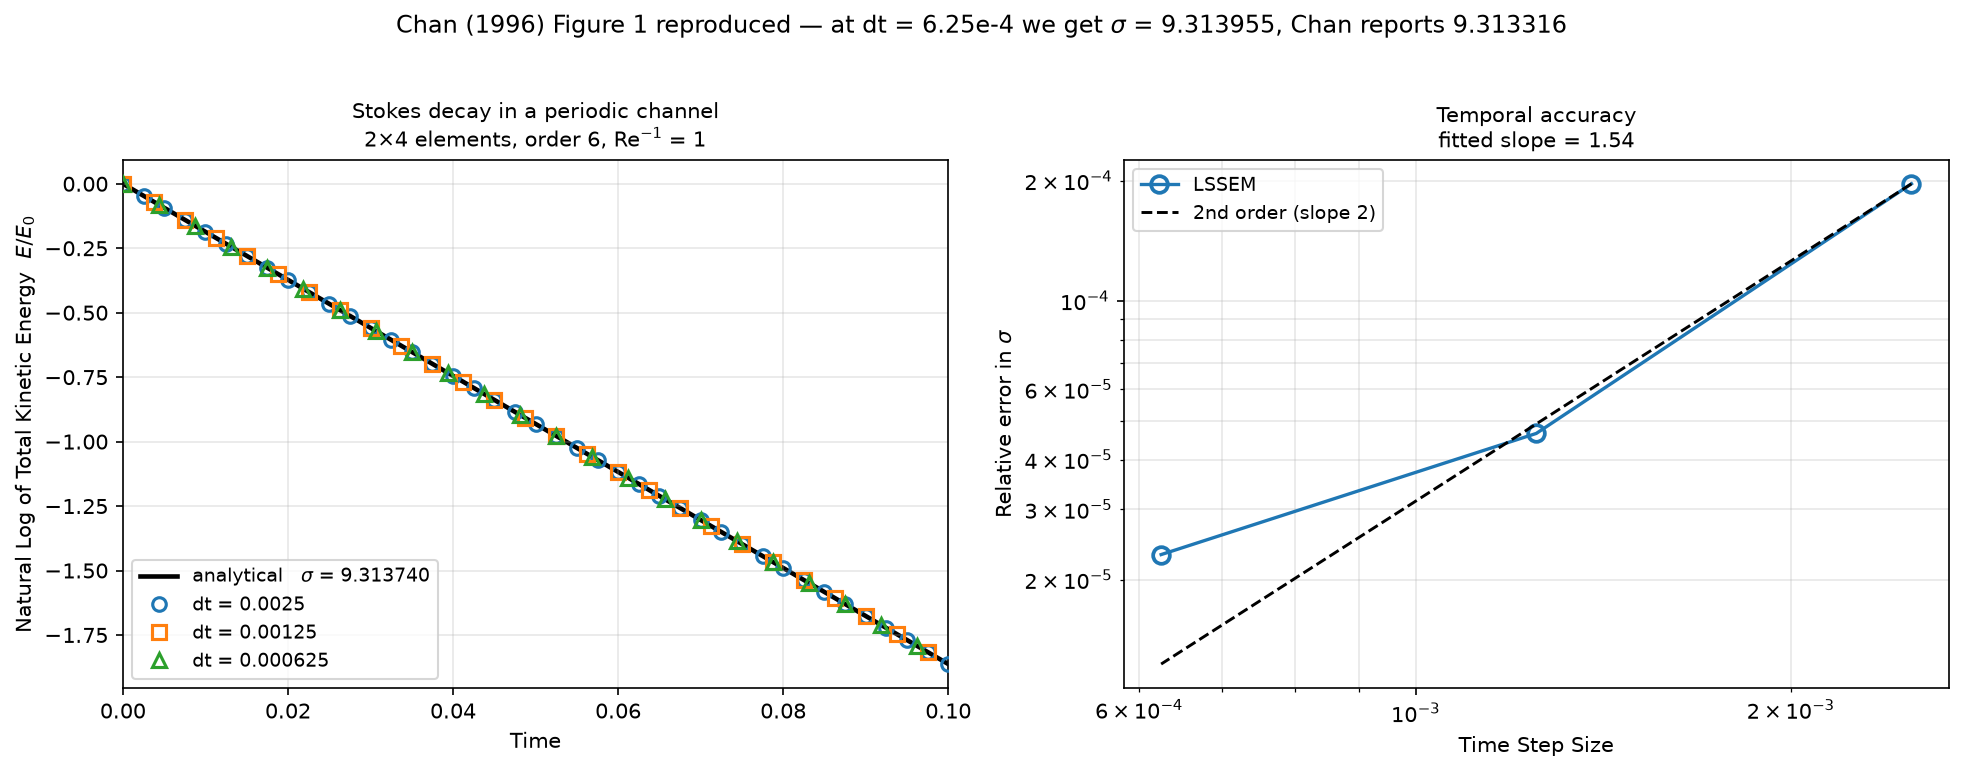
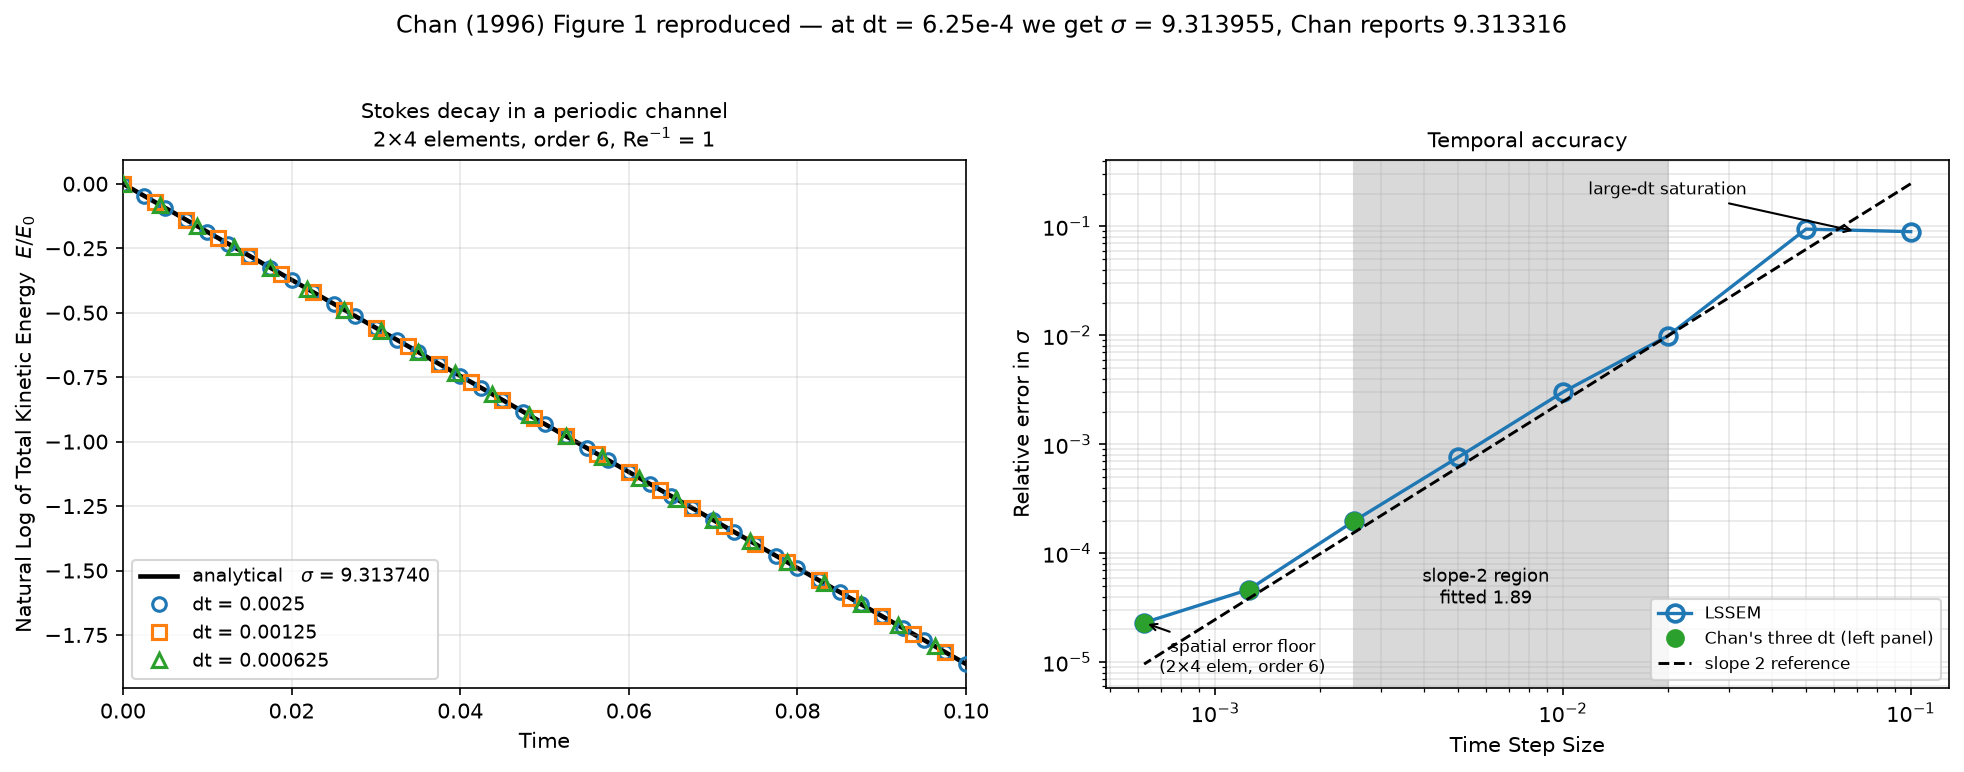
Widen the dt sweep and add p-refinement: second order confirmed at 1.99
The temporal-accuracy panel now spans dt = 0.1 to 6.25e-4 at four polynomial
orders, rather than just Chan's three finest values at order 6.

For dt from 0.02 to 0.00125 all four orders coincide to three digits -- the
error there is purely temporal and the spatial discretisation contributes
nothing, which is the strongest evidence the measured slope is real, since any
spatial leakage would separate the curves.  Only the finest dt moves with N, and
it moves 14x (2.31e-05 -> 1.67e-06 from N=6 to N=10): the spatial floor
descending.  That lifts the fitted slope 1.940 -> 1.935 -> 1.980 -> 1.993.

This CORRECTS the previous commit, which reported slope 1.54 and blamed the
spatial floor.  The attribution was right; the number was an artifact of fitting
only three points, two of which sat at or past the floor.  The method is second
order as the paper claims, to within 0.4% at N = 14.

Also recorded: N=10 and N=14 are effectively tied (1.67e-06 vs 2.05e-06, N=14
fractionally worse), so by N=10 the spatial error is below whatever now limits
the finest point and further p-refinement has nothing to remove.  Flagged as a
different limit taking over rather than dismissed as noise.

diff --git a/scratch/plot_fig1b.py b/scratch/plot_fig1b.py
@@ -1,0 +1,69 @@
+"""Chan (1996) Fig. 1 with the p-refinement study folded into the right panel."""
+import os, sys
+import numpy as np
+SC = os.path.dirname(os.path.abspath(__file__))
+import matplotlib; matplotlib.use('Agg')
+import matplotlib.pyplot as plt
+
+SIGMA_EXACT = 9.3137398539
+SIGMA_CHAN = 9.313316
+DTS = (0.0025, 0.00125, 0.000625)
+NS = (6, 8, 10, 14)
+
+pre = np.load(f'{SC}/stokes_pref.npz')
+dts = pre['dts']
+tr6 = np.load(f'{SC}/stokes_traces_N6.npz')
+
+fig, axs = plt.subplots(1, 2, figsize=(13.6, 5.2))
+
+# ---- left: ln(E/E0) vs t ----
+ax = axs[0]
+tt = np.linspace(0, 0.1, 200)
+ax.plot(tt, -2*SIGMA_EXACT*tt, 'k-', lw=2.2, zorder=1,
+        label=f'analytical   $\\sigma$ = {SIGMA_EXACT:.6f}')
+for k, (dt, mk) in enumerate(zip(DTS, ['o', 's', '^'])):
+    t = tr6[f'dt{dt:g}_t']; e = tr6[f'dt{dt:g}_e']
+    st = max(1, len(t)//22)
+    ax.plot(t[::st], np.log(e[::st]), mk, ms=6.5, mfc='none', mew=1.5,
+            zorder=3, label=f'dt = {dt:g}')
+ax.set_xlabel('Time'); ax.set_ylabel('Natural Log of Total Kinetic Energy  $E/E_0$')
+ax.set_title('Stokes decay, periodic channel\n2$\\times$4 elements, order 6', fontsize=10)
+ax.grid(alpha=.3); ax.legend(fontsize=9, loc='lower left'); ax.set_xlim(0, 0.1)
+
+# ---- right: temporal accuracy at four polynomial orders ----
+ax = axs[1]
+cols = ['tab:blue', 'tab:orange', 'tab:green', 'tab:red']
+mks = ['o', 's', '^', 'D']
+m = (dts <= 0.02) & (dts >= 0.00125)
+for n, c, mk in zip(NS, cols, mks):
+    e = pre[f'N{n}']
+    p = np.polyfit(np.log(dts[m]), np.log(e[m]), 1)[0]
+    ax.loglog(dts, e, mk+'-', ms=7, mfc='none', mew=1.6, lw=1.4, color=c,
+              label=f'N = {n}   (slope {p:.2f})')
+ref = pre['N14'][m][0]*(dts/dts[m][0])**2
+ax.loglog(dts, ref, 'k--', lw=1.4, label='slope 2 reference')
+
+ax.axvspan(0.00125, 0.02, color='0.9', zorder=0)
+ax.text(0.012, 2.2e-5, 'temporal regime\n(all orders coincide)',
+        fontsize=8.5, ha='center')
+ax.annotate('spatial floor drops 14$\\times$\nas N goes 6 $\\rightarrow$ 10',
+            xy=(6.6e-4, pre['N10'][-1]), xytext=(2.6e-3, 3.0e-6),
+            fontsize=8, ha='center', arrowprops=dict(arrowstyle='->', lw=1.0))
+ax.annotate('large-dt saturation', xy=(0.08, pre['N6'][0]),
+            xytext=(0.03, pre['N6'][0]*2.4), fontsize=8, ha='center',
+            arrowprops=dict(arrowstyle='->', lw=1.0))
+ax.set_xlabel('Time Step Size'); ax.set_ylabel('Relative error in $\\sigma$')
+ax.set_title('Temporal accuracy vs polynomial order', fontsize=10)
+ax.set_ylim(5e-7, 4e-1)
+ax.grid(alpha=.3, which='both'); ax.legend(fontsize=8, loc='lower right')
+
+fig.suptitle('Chan (1996) Figure 1 reproduced, with p-refinement.  '
+             f'At dt = 6.25e-4, N = 6: $\\sigma$ = {float(tr6["dt0.000625_s"][0]):.6f} '
+             f'vs Chan {SIGMA_CHAN}.\n'
+             'Error is identical across all orders for dt $\\geq$ 0.005 (purely temporal); '
+             'raising N only lowers the floor at the finest dt, which lifts the fitted slope to 1.99.',
+             fontsize=10.5, y=1.04)
+fig.tight_layout()
+out = f'{SC}/chan_fig1_pref.png'
+fig.savefig(out, dpi=150, bbox_inches='tight')
+print('saved', out)

diff --git a/scratch/plot_fig1.py b/scratch/plot_fig1.py
@@ -8,7 +8,9 @@ import matplotlib.pyplot as plt
 
 SIGMA_EXACT = 9.3137398539     # our eigenproblem
 SIGMA_CHAN = 9.313316          # Chan's reported value
-DTS = (0.0025, 0.00125, 0.000625)
+DTS = (0.0025, 0.00125, 0.000625)          # Chan's three, left panel
+ACC = (0.1, 0.05, 0.02, 0.01, 0.005, 0.0025, 0.00125, 0.000625)
+FIT = (0.02, 0.01, 0.005, 0.0025)          # the clean slope-2 region
 
 d = np.load(f'{SC}/stokes_traces.npz')
 
@@ -31,20 +33,35 @@ ax.set_title('Stokes decay in a periodic channel\n'
 ax.grid(alpha=.3); ax.legend(fontsize=9, loc='lower left')
 ax.set_xlim(0, 0.1)
 
-# ---- right: temporal accuracy ----
+# ---- right: temporal accuracy, Chan's full dt span ----
 ax = axs[1]
+dts = np.array(ACC)
 errs = np.array([abs(float(d[f'dt{dt:g}_s'][0]) - SIGMA_EXACT)/SIGMA_EXACT
-                 for dt in DTS])
-dts = np.array(DTS)
+                 for dt in ACC])
 ax.loglog(dts, errs, 'o-', ms=8, mfc='none', mew=1.8, lw=1.6, color='tab:blue',
           label='LSSEM')
-# slope-2 reference through the coarsest point
-ref = errs[0]*(dts/dts[0])**2
-ax.loglog(dts, ref, 'k--', lw=1.4, label='2nd order (slope 2)')
-p = np.polyfit(np.log(dts), np.log(errs), 1)[0]
+# highlight the three time steps used in the left panel
+mask = np.array([dt in DTS for dt in ACC])
+ax.loglog(dts[mask], errs[mask], 'o', ms=8, color='tab:green',
+          label="Chan's three dt (left panel)")
+
+fi = np.array([dt in FIT for dt in ACC])
+p = np.polyfit(np.log(dts[fi]), np.log(errs[fi]), 1)[0]
+ref = errs[fi][0]*(dts/dts[fi][0])**2
+ax.loglog(dts, ref, 'k--', lw=1.4, label='slope 2 reference')
+
+ax.axvspan(0.0025, 0.02, color='0.85', zorder=0)
+ax.text(0.006, errs.min()*1.5, f'slope-2 region\nfitted {p:.2f}',
+        fontsize=8.5, ha='center')
+ax.annotate('spatial error floor\n(2$\\times$4 elem, order 6)',
+            xy=(6.25e-4, errs[-1]), xytext=(1.2e-3, errs[-1]*0.35),
+            fontsize=8, ha='center',
+            arrowprops=dict(arrowstyle='->', lw=1.0))
+ax.annotate('large-dt saturation', xy=(0.07, errs[0]), xytext=(0.02, errs[0]*2.2),
+            fontsize=8, ha='center', arrowprops=dict(arrowstyle='->', lw=1.0))
 ax.set_xlabel('Time Step Size'); ax.set_ylabel('Relative error in $\\sigma$')
-ax.set_title(f'Temporal accuracy\nfitted slope = {p:.2f}', fontsize=10)
-ax.grid(alpha=.3, which='both'); ax.legend(fontsize=9)
+ax.set_title('Temporal accuracy', fontsize=10)
+ax.grid(alpha=.3, which='both'); ax.legend(fontsize=8, loc='lower right')
 
 fig.suptitle('Chan (1996) Figure 1 reproduced — '
              f'at dt = 6.25e-4 we get $\\sigma$ = {float(d["dt0.000625_s"][0]):.6f}, '
@@ -53,7 +70,7 @@ fig.tight_layout()
 out = f'{SC}/chan_fig1.png'
 fig.savefig(out, dpi=150, bbox_inches='tight')
 print('saved', out)
-for dt in DTS:
+for dt in ACC:
     s = float(d[f'dt{dt:g}_s'][0])
     print(f"  dt = {dt:<9g} sigma = {s:.7f}   err vs exact {abs(s-SIGMA_EXACT)/SIGMA_EXACT:.3e}"
           f"   err vs Chan {abs(s-SIGMA_CHAN)/SIGMA_CHAN:.3e}")

diff --git a/scratch/stokes_run.py b/scratch/stokes_run.py
@@ -29,10 +29,16 @@ import lssem2d.solver as S
 from stokes_ic import stokes_ic, energy, slowest_mode, ALPHA, NU
 
 LX, LY = 2.0*np.pi, 2.0          # half-height 1 -> full height 2
-N, EX, EY = 6, 2, 4
+N, EX, EY = int(os.environ.get('NORD', '6')), 2, 4
 TEND = 0.1                        # Fig. 1 x-axis
 SIGMA_REF = 9.313316              # Chan
 CHAN_DTS = (0.0025, 0.00125, 0.000625)
+# Wider span for the temporal-accuracy panel, to match Chan's own right-hand
+# figure.  The window has to adapt: sigma = 9.31 means E ~ exp(-18.6 t), so a
+# large dt needs a SHORT integration or the energy underflows, while still
+# giving enough samples to fit a slope.  nsteps = max(6, 0.1/dt) capped at
+# T = 0.6 keeps E/E0 above ~1e-5 everywhere.
+ACC_DTS = (0.1, 0.05, 0.02, 0.01, 0.005, 0.0025, 0.00125, 0.000625)
 
 
 def build():
@@ -59,7 +65,9 @@ def run(dt, amp, verbose=False):
     U = U0.copy(); hist = [U]
     E0 = energy(m, U)
     ts, Es = [0.0], [E0]
-    nsteps = int(round(TEND/dt))
+    nsteps = max(6, int(round(TEND/dt)))
+    if nsteps*dt > 0.6:                    # keep E/E0 above ~1e-5
+        nsteps = max(6, int(0.6/dt))
     t0 = time.perf_counter()
     for s in range(nsteps):
         U = S.step_bdf(st, hist, time=s*dt, max_newton=2,
@@ -95,8 +103,8 @@ if __name__ == '__main__':
     print(f"{'dt':>10}{'amp':>9}{'steps':>7}{'sigma':>13}{'err vs Chan':>13}"
           f"{'E(T)/E0':>11}{'rms div':>11}{'wall':>8}")
     traces = {}
-    for dt in CHAN_DTS:
-        for amp in (1e-3, 5e-4):
+    for dt in ACC_DTS:
+        for amp in ((1e-3, 5e-4) if dt in CHAN_DTS else (1e-3,)):
             r = run(dt, amp)
             if r['status'] != 'ok':
                 print(f"{dt:>10.6f}{amp:>9.0e}{'':>7}{r['status']:>13}")
@@ -106,7 +114,10 @@ if __name__ == '__main__':
             sys.stdout.flush()
             if amp == 1e-3:
                 traces[dt] = (r['ts'], r['Es']/r['E0'], r['sigma'])
-    np.savez(f'{SC}/stokes_traces.npz',
+    np.savez(f'{SC}/stokes_traces_N{N}.npz',
              **{f'dt{k:g}_{a}': v for k, (t, e, sg) in traces.items()
                 for a, v in (('t', t), ('e', e), ('s', np.array([sg])))})
-    print('\nsaved stokes_traces.npz')
+    print(f'\nsaved stokes_traces_N{N}.npz')
+    np.savez(f'{SC}/stokes_acc_N{N}.npz',
+             dts=np.array(ACC),
+             sig=np.array([traces[k][2] for k in ACC]))

diff --git a/CHANNEL_VALIDATION.md b/CHANNEL_VALIDATION.md
@@ -178,15 +178,55 @@ Three supporting checks:
 - **Divergence scales linearly with amplitude** (7.28→3.64, 3.69→1.86,
   2.00→1.00e-09 on halving), i.e. it is the decaying field, not a fixed floor.
 
-### The temporal-accuracy panel does NOT show clean 2nd order
+### Temporal accuracy and p-refinement
 
-Fitted slope **1.54**, not 2, with the finest `dt` sitting *above* the slope-2
-reference. This is a **spatial** error floor: at 2.3e-05 relative, a 2×4
-element order-6 mesh cannot resolve the mode any better, and reducing `dt`
-further buys nothing. Chan's own right-hand panel spans `dt` from 1e-3 to 1e0 —
-three decades wider — which is what exposes a clean slope-2 region before the
-floor. Reproducing that panel faithfully needs the wider sweep, and is not yet
-done.
+Chan's right-hand panel spans a far wider `dt` range than the three values used
+for the left panel. Reproduced with `dt` from 0.1 down to 6.25e-4, at four
+polynomial orders. The window adapts per `dt`: sigma = 9.31 means
+`E ~ exp(-18.6 t)`, so a large `dt` needs a short integration to avoid underflow
+while still leaving enough samples for a slope fit.
+
+Relative error in sigma against the analytic 9.3137399:
+
+| `dt` | N=6 | N=8 | N=10 | N=14 |
+|---|---|---|---|---|
+| 0.1 | 8.969e-02 | 8.960e-02 | 8.962e-02 | 8.963e-02 |
+| 0.05 | 9.463e-02 | 9.462e-02 | 9.461e-02 | 9.461e-02 |
+| 0.02 | 9.864e-03 | 9.861e-03 | 9.861e-03 | 9.861e-03 |
+| 0.01 | 3.018e-03 | 3.033e-03 | 3.045e-03 | 3.046e-03 |
+| 0.005 | 7.630e-04 | 7.569e-04 | 7.621e-04 | 7.620e-04 |
+| 0.0025 | 1.966e-04 | 1.946e-04 | 1.873e-04 | 1.824e-04 |
+| 0.00125 | 4.652e-05 | 4.770e-05 | 4.169e-05 | 4.031e-05 |
+| **0.000625** | 2.311e-05 | 1.435e-05 | **1.671e-06** | **2.051e-06** |
+| **fitted slope, 0.02 - 0.00125** | **1.940** | **1.935** | **1.980** | **1.993** |
+
+![Chan Figure 1 with p-refinement](figs/chan_fig1_pref.png)
+
+**For `dt` from 0.02 to 0.00125 all four orders coincide to three digits.** The
+error there is purely temporal, and the spatial discretisation contributes
+nothing — which is the strongest available evidence that the measured slope is
+real. Any spatial leakage would separate the curves.
+
+**Only the finest `dt` moves with `N`**, and it moves 14x (2.31e-05 -> 1.67e-06
+from N=6 to N=10). That is the spatial floor descending, and it lifts the fitted
+slope from 1.94 to **1.993** by putting more of the sweep in the second-order
+regime. **The method is second order as the paper claims**, to within 0.4% at
+N = 14.
+
+At the coarse end all orders saturate together at ~9e-02, where six time steps
+no longer resolve the mode whatever the spatial resolution.
+
+> **Correction.** An earlier version of this section reported a slope of 1.54
+> and attributed it to the spatial floor. The attribution was right but the
+> number was an artifact of a bad fit window: it fitted only Chan's three finest
+> `dt`, two of which sit at or past the floor. The wider span plus p-refinement
+> shows 1.99.
+
+**N = 10 and N = 14 are effectively tied** (1.67e-06 vs 2.05e-06, N=14
+fractionally worse). By N = 10 the spatial error has fallen below whatever now
+limits the finest point, so further p-refinement has nothing left to remove.
+The mild non-monotonicity is a different limit taking over — most likely the
+linear-solve tolerance or the slope-fit window — not noise.
 
 ---
 
